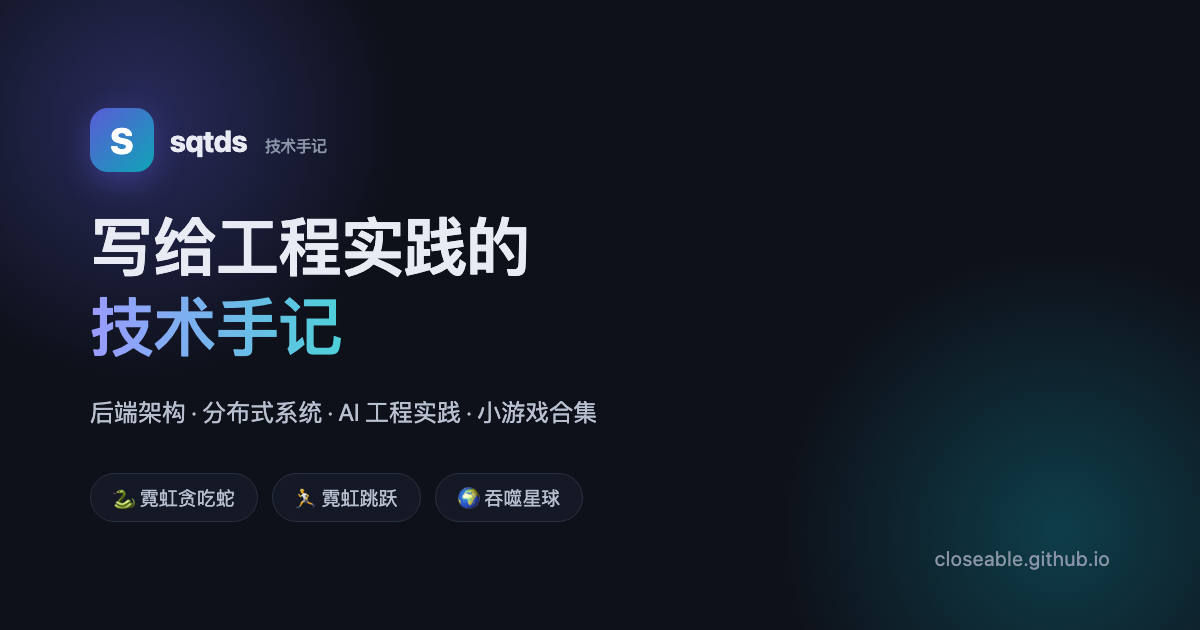
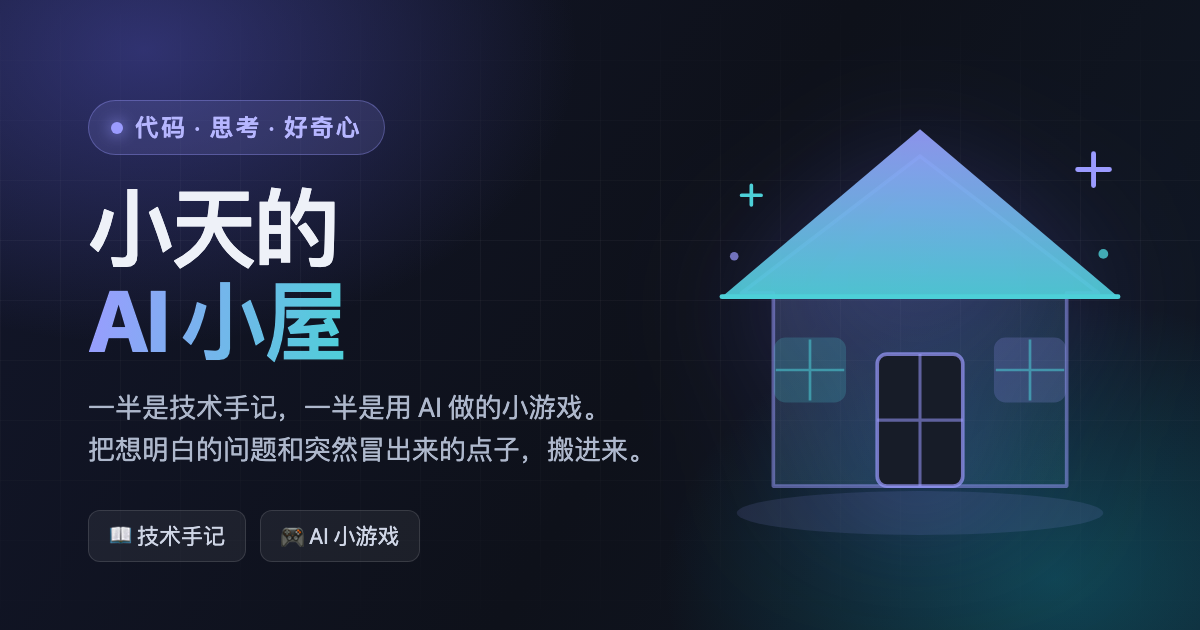
feat: 全站品牌改为「小天的 AI 小屋」——重做首页为 AI 主题门户（小屋插画/四房间导航/小游戏预览），统一页眉页脚/标题/结构化数据/RSS/分享图与图标，关于页同步改版

diff --git a/src/pages/rss.xml.ts b/src/pages/rss.xml.ts
@@ -5,7 +5,7 @@ import { getAllPosts } from '../utils/posts';
 export const GET: APIRoute = async (context) => {
   const posts = await getAllPosts();
   return rss({
-    title: 'sqtds · 技术手记',
+    title: '小天的 AI 小屋',
     description: '关注后端架构、分布式系统与工程实践。',
     site: context.site ?? 'https://example.com',
     items: posts.map((post) => ({
